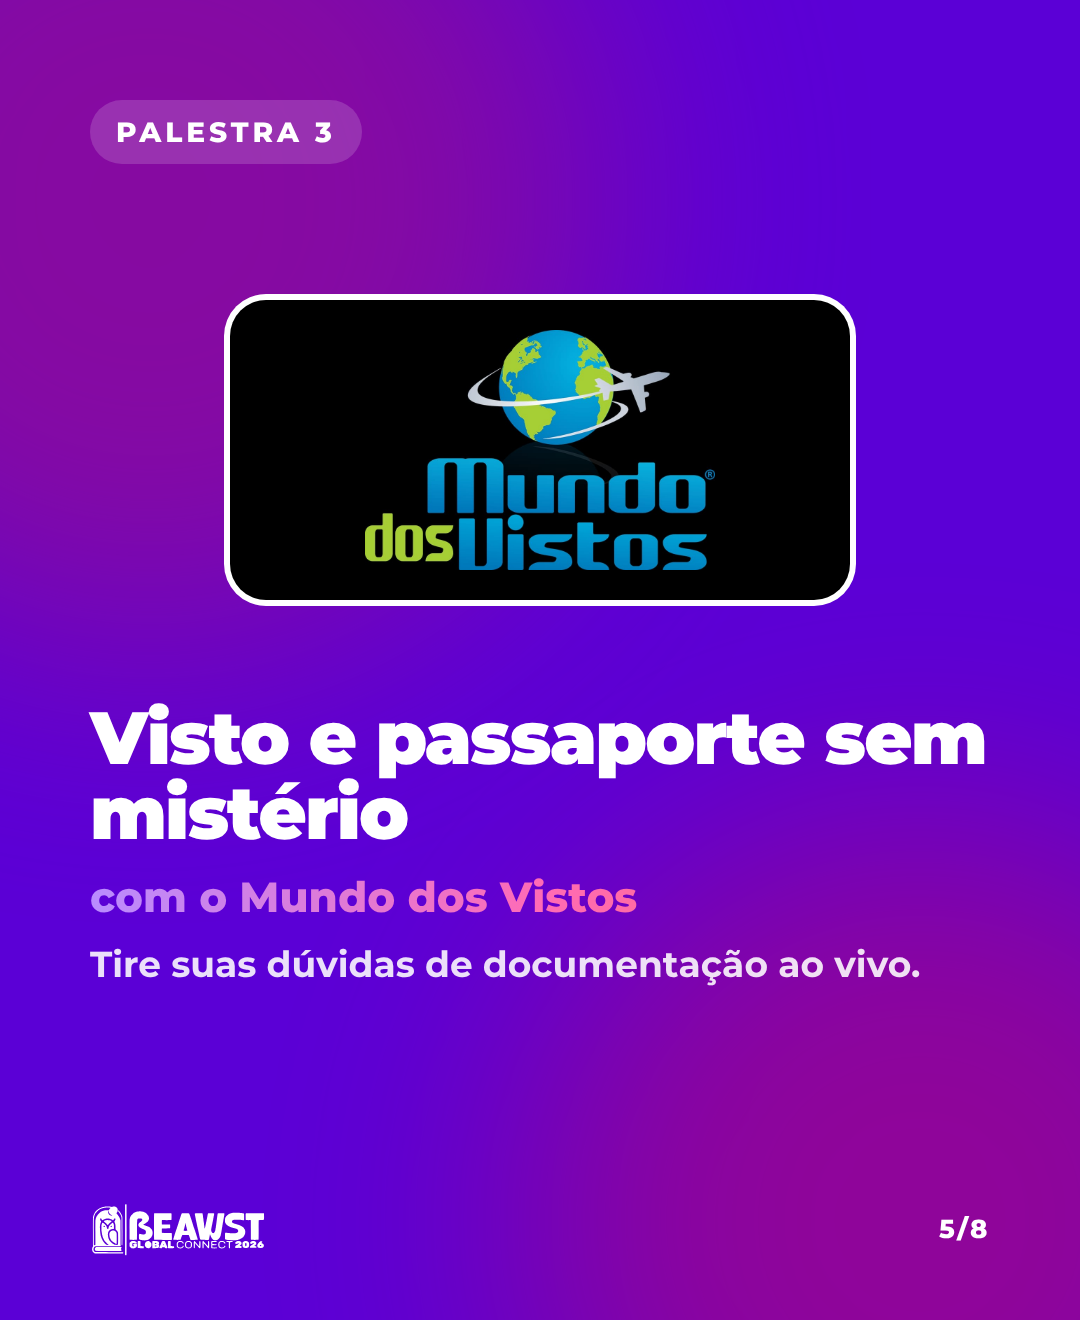
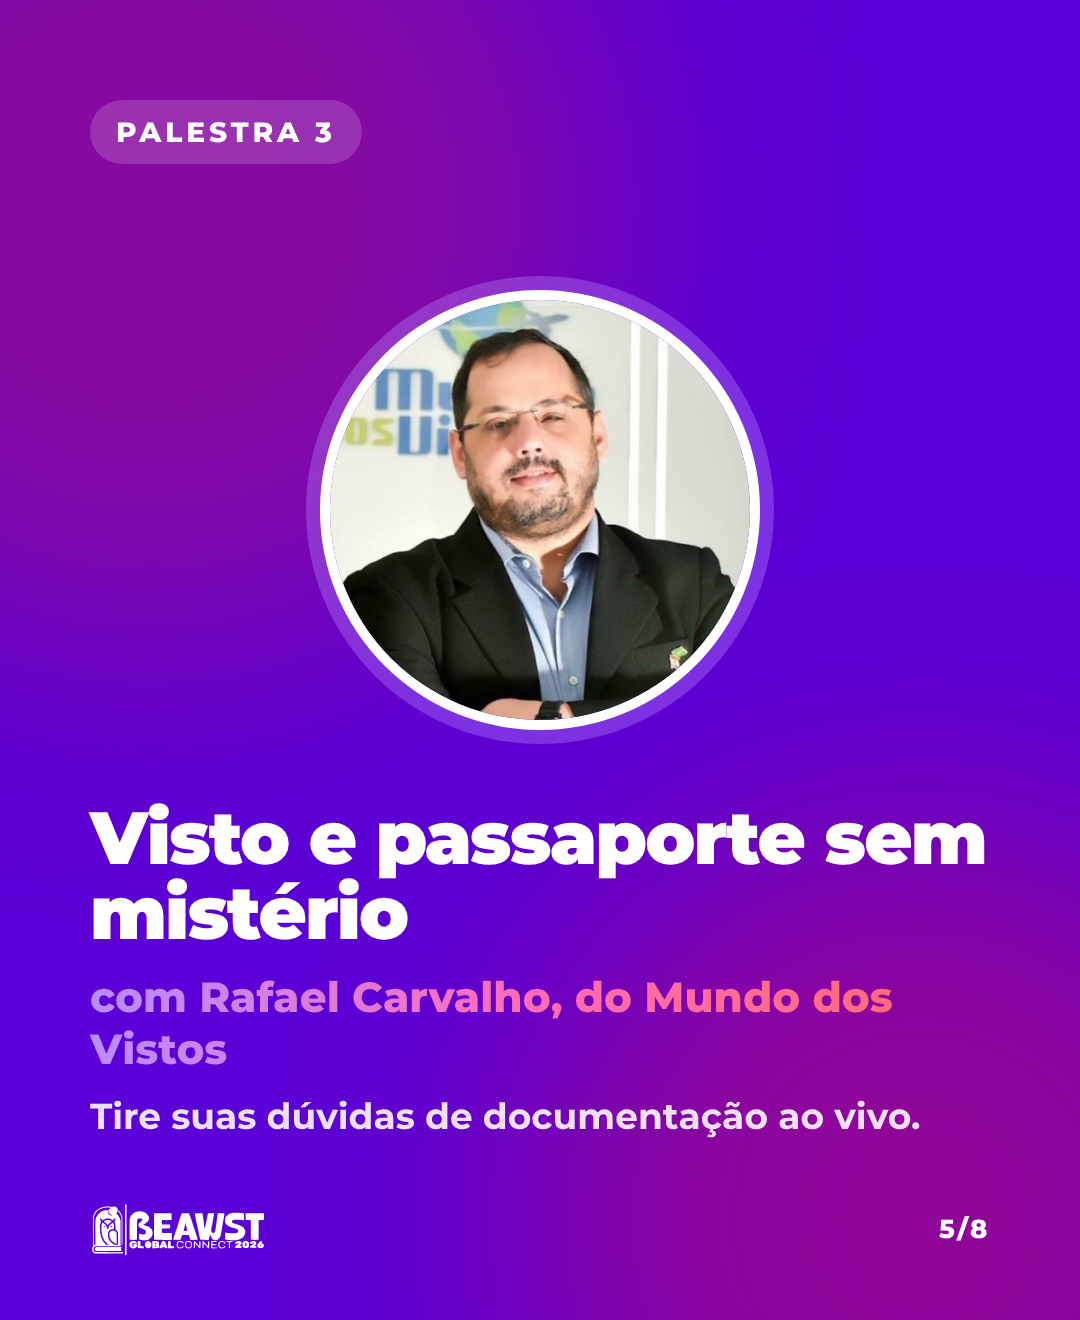
Palestrante Rafael Carvalho (Mundo dos Vistos): transmissão, story e carrossel
Claude-Session: https://claude.ai/code/session_01KyHVk97BxwCKQz2piQjfor

Changed region(s): [[0.0611, 0.1864, 0.9167, 0.8076], [0.0917, 0.8386, 0.8556, 0.8697]]

diff --git a/beawst-stories-palestrantes/stories.html b/beawst-stories-palestrantes/stories.html
@@ -120,6 +120,26 @@ body.guia .guide{display:flex}
   <div class="guide" style="top:1450px;height:115px">LINK DE INSCRIÇÃO</div>
 </div>
 
+<!-- 5 | Rafael (Mundo dos Vistos) -->
+<div class="story" id="s5" style="background:var(--escuro)">
+  <div class="glow" style="width:900px;height:900px;background:var(--magenta);opacity:.6;left:-300px;top:-200px"></div>
+  <div class="glow" style="width:800px;height:800px;background:var(--vermelho);opacity:.4;left:520px;top:1150px"></div>
+  <div class="abs" style="left:90px;right:90px;top:280px;display:flex;justify-content:space-between;align-items:center">
+    <span class="pill" style="background:#fff;color:var(--roxo)">palestrante</span>
+    <img src="assets/logo-feira-branco.svg" style="width:260px;display:block"></div>
+  <div class="card" style="left:220px;top:390px;width:640px;height:600px;transform:rotate(2deg)">
+    <img src="assets/rafael.jpg" style="object-position:50% 12%"></div>
+  <div class="abs" style="left:190px;top:950px;transform:rotate(-2deg)"><span class="pill" style="background:var(--escuro);font-size:34px;padding:18px 30px">Rafael Carvalho</span></div>
+  <div class="abs c" style="top:1060px">
+    <div style="display:inline-flex;align-items:center;justify-content:center;background:#000;border-radius:24px;padding:14px 34px;height:120px;box-shadow:0 16px 40px rgba(14,7,22,.3)">
+      <img src="assets/02-mundo-dos-vistos.jpg" style="height:92px;display:block"></div>
+    <div style="font-weight:700;font-size:38px;line-height:1.32;margin-top:24px">Do <b style="font-weight:900">Mundo dos Vistos</b>: visto e passaporte sem mistério, com dúvidas tiradas ao vivo.</div>
+  </div>
+  <div class="abs c" style="top:1360px;font-weight:800;font-size:38px">07/11 · Garanta sua vaga
+    <svg width="30" height="40" viewBox="0 0 70 90" style="vertical-align:middle;margin-left:6px"><path d="M35 6v70M10 52l25 26 25-26" fill="none" stroke="#fff" stroke-width="10" stroke-linecap="round" stroke-linejoin="round"/></svg></div>
+  <div class="guide" style="top:1450px;height:115px">LINK DE INSCRIÇÃO</div>
+</div>
+
 <script>
 const q = new URLSearchParams(location.search);
 document.getElementById('s' + (q.get('s') || '1')).style.display = 'block';

diff --git a/beawst-transmissao/telas.html b/beawst-transmissao/telas.html
@@ -28,6 +28,8 @@ const PALESTRANTES = {
     desc: 'Conheça os processos de estudo e trabalho no destino mais procurado da Europa.' },
   daniel: { nome: 'Daniel Döbereiner', tema: 'Gateway School of English', bandeira: 'malta', foto: 'assets/palestrantes/daniel.jpg', fotoPos: '50% 30%', fotoZoom: 1.1, fotoOrigem: '48% 35%',
     desc: 'Representante da Gateway School of English, escola de inglês em Malta.' },
+  rafael: { nome: 'Rafael Carvalho', tema: 'Visto e passaporte sem mistério', foto: 'assets/palestrantes/rafael.jpg', fotoPos: '50% 18%', fotoZoom: 1.25, fotoOrigem: '48% 22%',
+    desc: 'Do Mundo dos Vistos: tire suas dúvidas de documentação ao vivo.' },
 };
 window.PALESTRANTES = PALESTRANTES;
 HOLES.pm = HOLES['08'];   // máscara PPT + câmera personalizada usa os mesmos recortes
@@ -207,7 +209,7 @@ if (P) {
   const foto = el => { el.textContent = ini; const i = new Image(); i.style.objectPosition = P.fotoPos || '50% 50%'; i.style.transform = `scale(${P.fotoZoom || 1})`; i.style.transformOrigin = P.fotoOrigem || '50% 50%'; i.onload = () => { el.textContent = ''; el.appendChild(i); }; i.src = P.foto; };
   const set = (id, v) => { const e = document.getElementById(id); if (e) e.textContent = v; };
   ['ps', 'pm', 'gc'].forEach(k => { set(k + 'Nome', P.nome); set(k + 'Tema', P.tema); set(k + 'Desc', P.desc);
-    const f = document.getElementById(k + 'Flag'); if (f) f.innerHTML = BANDEIRAS[P.bandeira];
+    const f = document.getElementById(k + 'Flag'); if (f) { if (P.bandeira) f.innerHTML = BANDEIRAS[P.bandeira]; else f.style.display = 'none'; }
     const ft = document.getElementById(k + 'Foto'); if (ft) foto(ft); });
 }
 if (t === 'gc') { document.body.classList.add('transp'); document.documentElement.style.background = 'transparent'; document.body.style.background = 'transparent'; }

diff --git a/beawst-carrossel-programacao/carrossel.html b/beawst-carrossel-programacao/carrossel.html
@@ -13,7 +13,7 @@ const PROGRAMA = [
     desc: 'A realidade e as oportunidades da ilha com quem mora lá há 14 anos.' },
   { hora: '', titulo: 'Trabalho e estudo na Irlanda', sub: 'com a Consultora Alessandra', bandeira: 'irlanda', foto: 'assets/alessandra.jpg', pos: '100% 38%', zoom: 1.12, origem: '100% 45%',
     desc: 'Os processos de estudo e trabalho no destino mais procurado da Europa.' },
-  { hora: '', titulo: 'Visto e passaporte sem mistério', sub: 'com o Mundo dos Vistos', logo: 'assets/parceiros/02-mundo-dos-vistos.jpg', logoFundo: '#000',
+  { hora: '', titulo: 'Visto e passaporte sem mistério', sub: 'com Rafael Carvalho, do Mundo dos Vistos', foto: 'assets/rafael.jpg', pos: '50% 18%', zoom: 1.25, origem: '48% 22%',
     desc: 'Tire suas dúvidas de documentação ao vivo.' },
 ];
 const PARCEIROS = [
